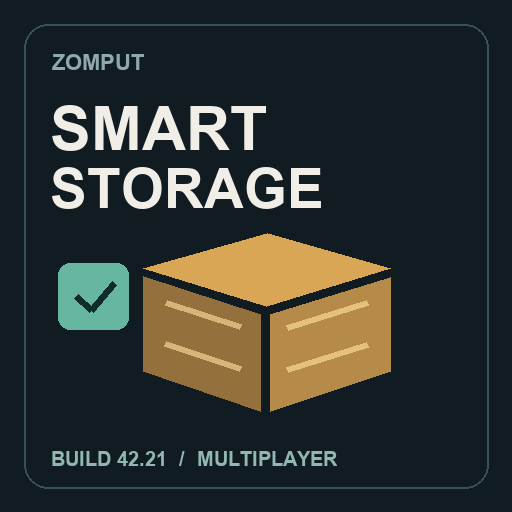
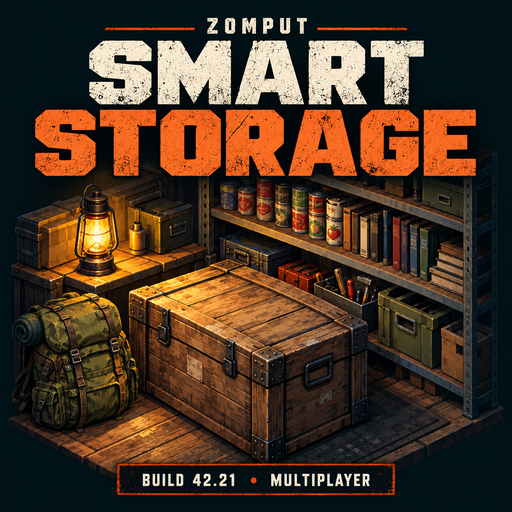
Refresh Workshop artwork and illustrated bilingual description

diff --git a/tools/make_preview.py b/tools/make_preview.py
@@ -1,34 +1,12 @@
-"""Optional maintainer tool: generate the original Workshop preview with Pillow."""
+"""Export the original generated cover to the conventional PZ preview size.
+
+Requires Pillow. The full-resolution artwork is preserved in docs/media/.
+"""
 from pathlib import Path
-from PIL import Image, ImageDraw, ImageFont
+from PIL import Image
 
 ROOT = Path(__file__).resolve().parents[1]
-image = Image.new('RGB', (512, 512), '#111c22')
-draw = ImageDraw.Draw(image)
-
-
-def font(size):
-    for name in ('arialbd.ttf', 'DejaVuSans-Bold.ttf'):
-        try:
-            return ImageFont.truetype(name, size)
-        except OSError:
-            continue
-    return ImageFont.load_default(size=size)
-
-
-draw.rounded_rectangle((24, 24, 488, 488), radius=24, outline='#385057', width=2)
-draw.text((52, 50), 'ZOMPUT', fill='#8ea8ad', font=font(22))
-draw.text((50, 94), 'SMART', fill='#f0eee6', font=font(61))
-draw.text((50, 158), 'STORAGE', fill='#f0eee6', font=font(55))
-draw.polygon([(143, 268), (267, 233), (390, 268), (266, 306)], fill='#d8a655')
-draw.polygon([(143, 276), (260, 314), (260, 411), (143, 371)], fill='#94703d')
-draw.polygon([(270, 314), (390, 277), (390, 371), (270, 411)], fill='#b68b49')
-draw.line([(166, 302), (240, 326)], fill='#d7b578', width=6)
-draw.line([(165, 343), (240, 368)], fill='#d7b578', width=6)
-draw.line([(287, 327), (367, 302)], fill='#e5c180', width=6)
-draw.line([(287, 369), (367, 344)], fill='#e5c180', width=6)
-draw.rounded_rectangle((58, 263, 128, 329), radius=12, fill='#67b6a2')
-draw.line([(76, 296), (91, 310), (114, 283)], fill='#112d2b', width=7)
-draw.text((51, 447), 'BUILD 42.21  /  MULTIPLAYER', fill='#91b7b2', font=font(20))
-image.save(ROOT / 'preview.png')
-print('Generated preview.png')
+with Image.open(ROOT / 'docs/media/workshop-cover.png') as cover:
+    cover.thumbnail((512, 512), Image.Resampling.LANCZOS)
+    cover.convert('RGB').save(ROOT / 'preview.png', optimize=True)
+print('Exported preview.png from the generated cover artwork.')

diff --git a/docs/ARTWORK.md b/docs/ARTWORK.md
@@ -1,0 +1,34 @@
+# Workshop artwork
+
+Created with the built-in `image_gen` tool. These are original AI-generated promotional illustrations, not game screenshots.
+
+Saved assets:
+
+- `docs/media/workshop-cover.png`: full-resolution cover original.
+- `docs/media/workshop-cover.jpg`: web-ready cover encoding.
+- `docs/media/workshop-quickstart.png`: full-resolution three-step guide original.
+- `docs/media/workshop-quickstart.jpg`: web-ready gallery encoding.
+- `preview.png`: small conventional Workshop staging preview.
+
+## Cover prompt
+
+```text
+Use case: ads-marketing. Asset type: square Steam Workshop cover, 1024x1024.
+Create a beautifully art-directed cover for a Project Zomboid inventory organization mod named Zomput-Smart_Storage. Original illustrated artwork, not a screenshot. Isometric survivor's storage room vignette: a detailed weathered wooden crate in front, organized shelving with canned food, a few books and tools, olive hiking backpack nearby, restrained amber lantern lighting against deep charcoal and dark teal shadows. Painterly pixel-art-informed game illustration with crisp edges, tactile wood and canvas, atmospheric dust, premium indie survival game cover quality. The backpack-to-storage theme is immediately readable. No people, zombies, weapons, or extraneous story elements.
+Composition: large confident readable type in upper third, rich isometric crate vignette in lower two thirds, generous frame margins, strong small-thumbnail silhouette. Editorial typography, subtle grunge, restrained orange accent, sophisticated and polished, not generic sci-fi.
+Text verbatim, all English: small top brand "ZOMPUT"; very large main title on two lines "SMART" / "STORAGE"; small bottom label "BUILD 42.21  •  MULTIPLAYER". No other text. No official logos, no fake screenshots or fabricated UI, no claims about verified multiplayer. Opaque background.
+```
+
+## Guide prompt
+
+```text
+Use case: infographic-diagram. Asset type: landscape Steam Workshop feature guide, 1536x1024.
+Original beautifully illustrated promotional infographic for Zomput Smart Storage, a survival-game inventory organization mod. Dark charcoal and near-black teal backdrop, weathered warm orange accents and cream typography, richly textured isometric wooden crates and olive canvas backpacks, atmospheric warm lantern lighting. High quality painterly game concept art with crisp pixel-art-informed detail. Premium editorial grid, three clearly separate equal illustrated feature panels, generous margins, highly readable text. Do not create a game screenshot or pretend to depict actual UI.
+Top title in large condensed weathered cream lettering verbatim "SMART STORAGE"; smaller subheading "THREE SIMPLE STEPS".
+Three panels left to right:
+Left: small number "01", heading "SELECT A TAB", an open olive backpack with books and canned food visible. A simple abstract cyan highlight indicates that bag is selected. Physical items stay inside the bag.
+Middle: small number "02", heading "REGISTER TYPES", the same backpack plus a translucent outlined reference card bearing an apple icon and a dotted arrow. Distinguish a ghost reference from a physical apple, to show type registration without moving inventory. Small caption "No items moved".
+Right: small number "03", heading "AUTO SORT", an isometric wooden crate with neatly sorted apples and food on shelves, warm orange directional arrow pointing from bag toward the crate. Small caption "Allowed items only".
+Bottom fine but readable line verbatim "BUILD 42.21  •  MULTIPLAYER".
+No people, no zombies, no official logos, no invented status badges, no testing or verification claims. All written text exactly as specified, no extra text. Balanced visual density; art remains legible when reduced to a workshop gallery image. Opaque background.
+```

diff --git a/README.md b/README.md
@@ -1,10 +1,16 @@
 # Zomput-Smart_Storage
 
+![Zomput Smart Storage](preview.png)
+
 프로젝트 좀보이드 **Build 42.21 / 42.21.0**, 싱글 및 멀티플레이용 스마트 보관함 모드입니다.
 
 **Mod ID:** `ZomputSmartStorage`
 
 **Workshop ID:** `3820062699` · [스팀 창작마당](https://steamcommunity.com/sharedfiles/filedetails/?id=3820062699)
+
+![선택한 탭에서 종류 등록 후 자동정리하는 3단계 안내](docs/media/workshop-quickstart.jpg)
+
+대표 이미지와 안내 이미지는 AI 생성 기능 일러스트입니다. 실제 게임 화면은 아닙니다. [원본 이미지와 생성 프롬프트](docs/ARTWORK.md) · [창작마당 설명 원문](docs/workshop-description.bbcode)
 
 ## 사용 방법
 
